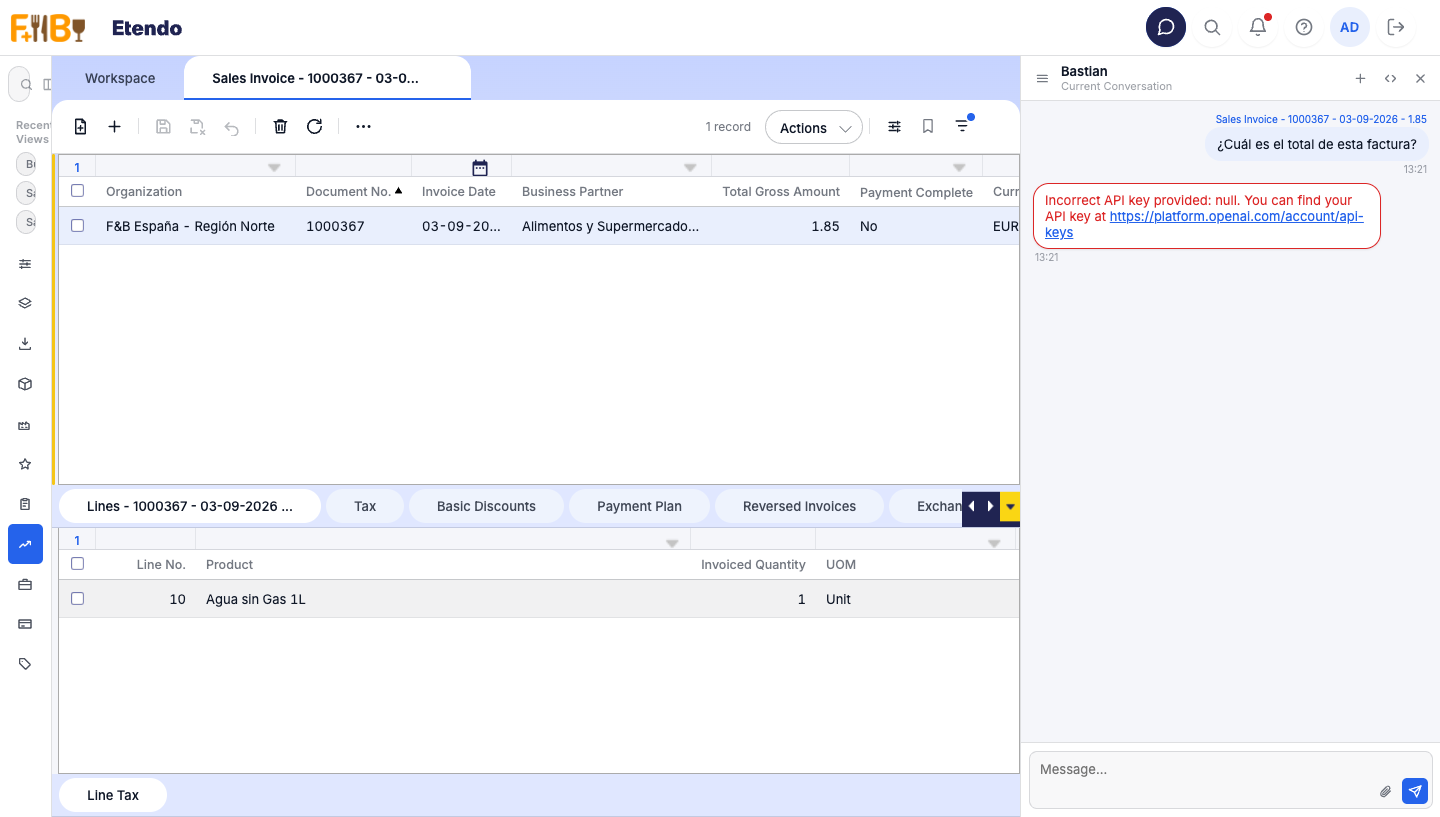
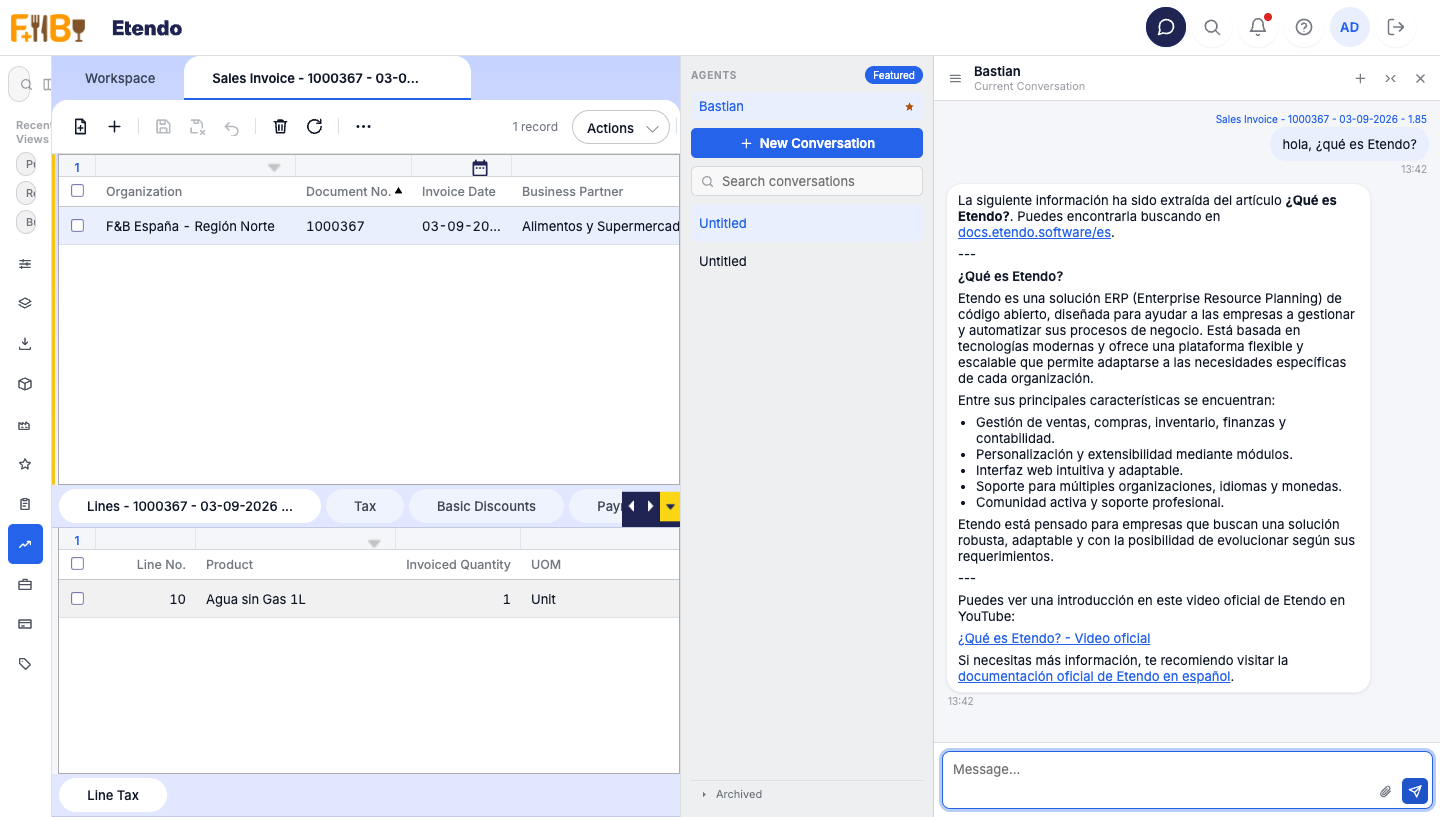
:bug: Say so when a question gets no answer
Pressing send appeared to do nothing. The question was sent - it is in the
log, the request goes out - but if the exchange ended without a single
message the panel kept the "Processing..." bubble under it for good, which
reads as a panel that swallowed the question and a button that does not
work. On this instance the request was answered with a 404, because the
deployed web.xml has no mapping for the module's servlet.

An EventSource is never told the status, so a finished answer and a request
that never arrived reach the browser the same way: as an error. What tells
them apart is what is on the screen - a message the panel put there to be
replaced being the last one means nothing came back - and that now becomes
the module's own "Cannot connect to Copilot service.", the same message it
raises everywhere else.

The other way the button could say nothing was a question asked before the
assistants had arrived, or with none granted to the role: send returned on
the spot. It says why now, in the module's words, and keeps what was typed.

after-copilot-answer.png is re-taken with the servlet reachable: the same
question, streamed, and a real answer rendered in the panel.

diff --git a/web/com.etendoerp.skin.modern/js/etendo-skin-copilot.js b/web/com.etendoerp.skin.modern/js/etendo-skin-copilot.js
@@ -644,7 +644,7 @@
       source = new EventSource(serviceUrl('aquestion') + '?' + params(question, cached));
     } catch (e) {
       state.busy = false;
-      pushMessage(ROLE_ERROR, label('ETCOP_CheckSettings', 'Copilot is not reachable.'));
+      pushMessage(ROLE_ERROR, label('ETCOP_ConnError', 'Cannot connect to Copilot service.'));
       return;
     }
     state.stream = source;
@@ -683,8 +683,20 @@
      * same question again.
      */
     source.onerror = function () {
+      var last = state.messages.length ? state.messages[state.messages.length - 1] : null;
       stopStream();
       state.busy = false;
+      /*
+       * A finished answer and a request that never arrived both reach the browser the same way,
+       * because an EventSource is never told the status - so what tells them apart is what is on
+       * the screen. A message the panel put there to be replaced is still the last one means the
+       * answer never came, and the exchange has to say so: it used to leave "Processing..." under
+       * the question for good, which read as a panel that had swallowed it.
+       */
+      if (last && (last.role === ROLE_WAIT || last.role === ROLE_NODE || last.role === ROLE_TOOL)) {
+        state.messages.pop();
+        pushMessage(ROLE_ERROR, label('ETCOP_ConnError', 'Cannot connect to Copilot service.'));
+      }
       paint();
       maybeTitle();
     };
@@ -695,7 +707,17 @@
     var wrapped = question;
     var names = [];
     var i;
-    if (!question || state.busy || !state.assistant) {
+    if (!question || state.busy) {
+      return;
+    }
+    /*
+     * Nothing to ask it with. The composer is still there to be typed into - the assistants arrive
+     * over the network and may not have arrived yet - so the button saying nothing at all would be
+     * the panel losing the question. The module's own message says why.
+     */
+    if (!state.assistant) {
+      state.notice = label('ETCOP_NoAssistant', 'No agent available. Please check settings and permissions.');
+      paint();
       return;
     }
     if (state.context) {
